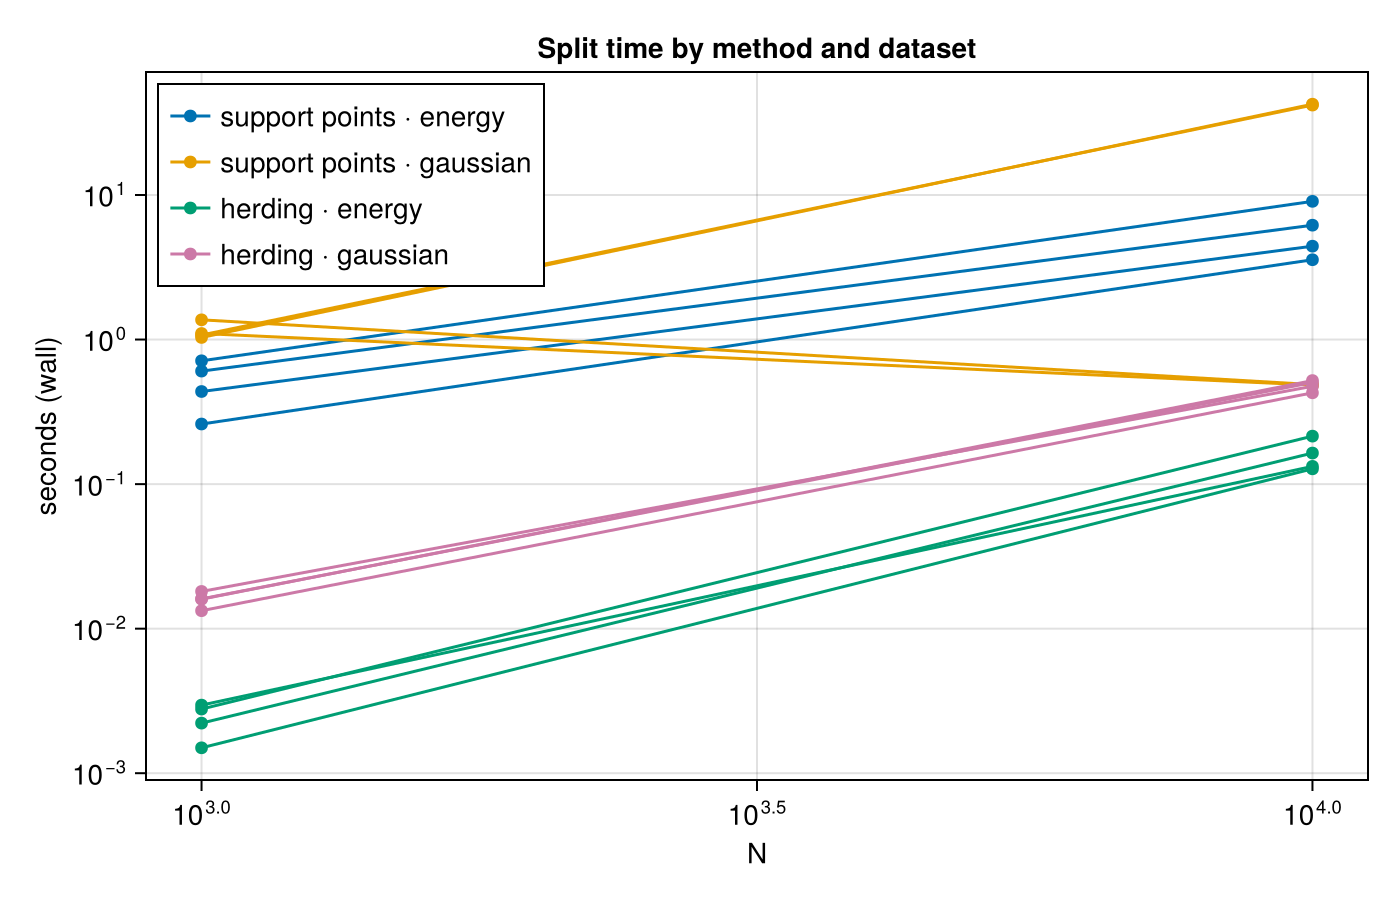
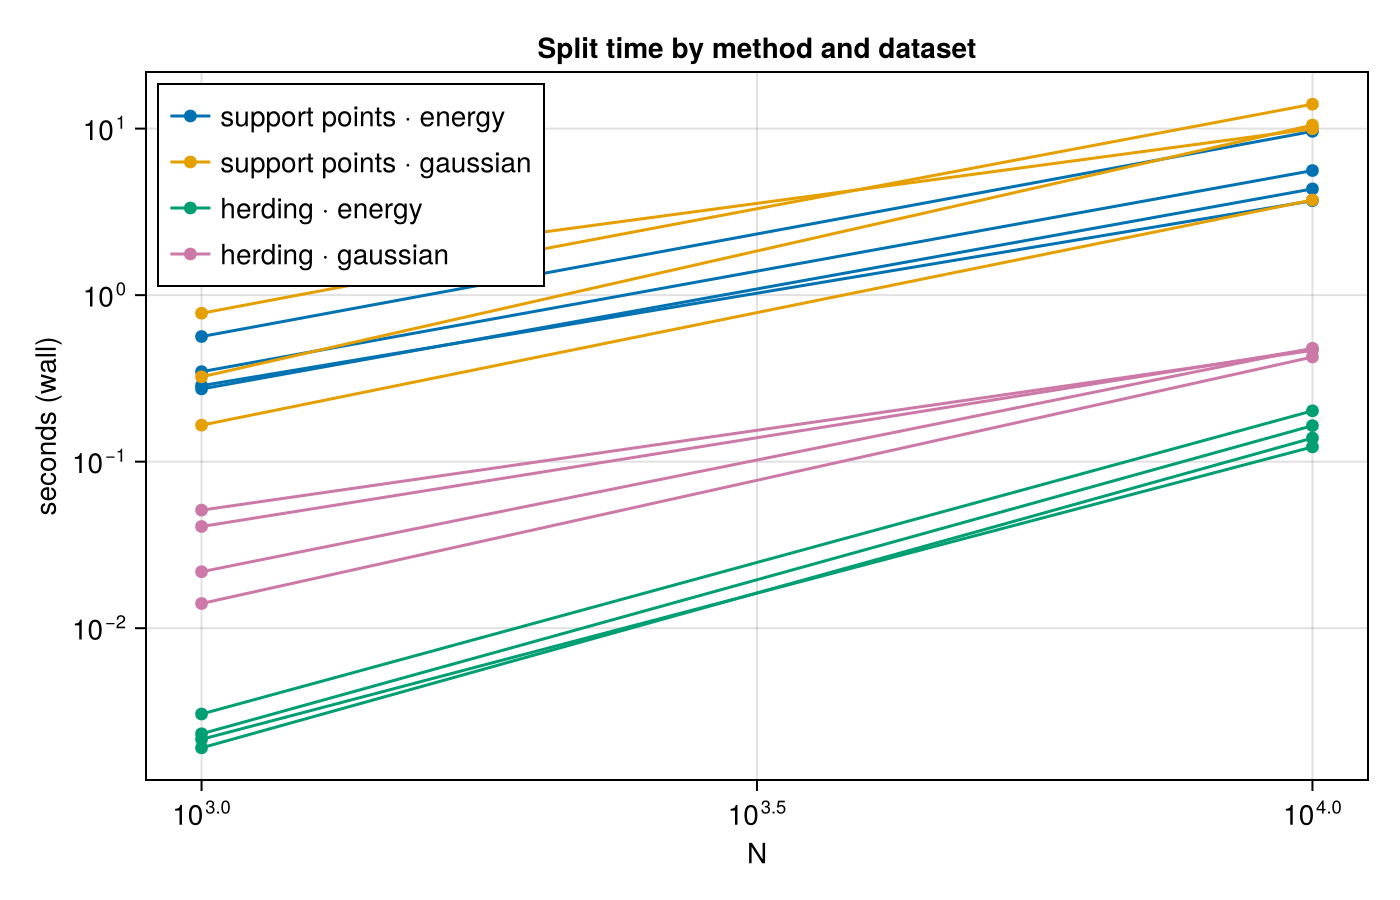
bench: Re-run benchmarks with the scale-aware optimizer
Full julia -t auto --project=benchmark benchmark/run.jl re-run
(the Gaussian optimizer's first step and convergence rule changed):
regenerated results.md and the three figures, and rewrote the
Benchmarks page's tables and Caveats from the new numbers.

support points · gaussian now converges honestly on every cell instead
of the old bimodal pattern (early stop at the initial sample on
normal-10d/uniform-5d, iteration cap without convergence on
mixture-2d/t3-3d). No ranking changes: herding · energy stays the
recommended default (lowest energy distance in 6/8 cells, fastest
everywhere); support points · gaussian is not the winner on any cell,
so its stopping point does not affect the recommendation.

diff --git a/docs/src/20-benchmarks.md b/docs/src/20-benchmarks.md
@@ -22,7 +22,10 @@ lowest MMD on the other three datasets. Reproduce with the command under
 | t3-3d | 10000 | herding · energy | herding · gaussian | herding · energy |
 
 Smaller discrepancy is better; times exclude JIT warm-up. Full per-cell
-numbers are in the tables under [Results](@ref benchmarks-results).
+numbers are in the tables under [Results](@ref benchmarks-results). For
+large inputs, `splitquality`'s automatic estimator is `RandomSlices(64)`
+(`EnergyKernel`) or `RandomFeatures(512)` (`GaussianKernel`), chosen by the
+selection experiment recorded under Results below ("Estimators").
 
 ## Setup
 
@@ -85,14 +88,14 @@ Best value per row in **bold**. The raw per-run table is
 
 | dataset | N | support points · energy | support points · gaussian | herding · energy | herding · gaussian | random |
 |---|---:|---:|---:|---:|---:|---:|
-| mixture-2d | 1000 | **0.000323** | 0.00235 | 0.000439 | 0.00772 | 0.012 |
+| mixture-2d | 1000 | **0.000323** | 0.00264 | 0.000439 | 0.00772 | 0.012 |
 | normal-10d | 1000 | 0.0215 | 0.0247 | **0.00822** | 0.00927 | 0.0255 |
-| uniform-5d | 1000 | 0.0047 | 0.015 | **0.00343** | 0.00535 | 0.0173 |
-| t3-3d | 1000 | **0.00163** | 0.0052 | 0.00174 | 0.0035 | 0.0161 |
+| uniform-5d | 1000 | 0.0047 | 0.0158 | **0.00343** | 0.00535 | 0.0173 |
+| t3-3d | 1000 | **0.00163** | 0.00586 | 0.00174 | 0.0035 | 0.0161 |
 | mixture-2d | 10000 | 0.000173 | 0.0003 | **1.42e-5** | 0.00432 | 0.000885 |
 | normal-10d | 10000 | 0.0025 | 0.00299 | **0.0006** | 0.000873 | 0.00208 |
 | uniform-5d | 10000 | 0.000844 | 0.00187 | **0.000199** | 0.00046 | 0.00146 |
-| t3-3d | 10000 | 0.000262 | 0.000567 | **8.06e-5** | 0.00082 | 0.00151 |
+| t3-3d | 10000 | 0.000262 | 0.000583 | **8.06e-5** | 0.00082 | 0.00151 |
 
 ### Gaussian MMD
 
@@ -101,14 +104,14 @@ dataset.
 
 | dataset | N | support points · energy | support points · gaussian | herding · energy | herding · gaussian | random |
 |---|---:|---:|---:|---:|---:|---:|
-| mixture-2d | 1000 | **1.57e-6** | 9.1e-6 | 1.08e-5 | 1.9e-5 | 0.00258 |
+| mixture-2d | 1000 | **1.57e-6** | 3.21e-5 | 1.08e-5 | 1.9e-5 | 0.00258 |
 | normal-10d | 1000 | 0.00187 | 0.00224 | 0.000114 | **9.82e-5** | 0.00227 |
-| uniform-5d | 1000 | 0.000255 | 0.00176 | 3.62e-5 | **3.54e-5** | 0.00217 |
-| t3-3d | 1000 | 0.000116 | 0.000663 | 9.8e-5 | **7.58e-5** | 0.00375 |
-| mixture-2d | 10000 | 3.2e-5 | 7.76e-7 | **1.87e-7** | 2.85e-7 | 0.000166 |
+| uniform-5d | 1000 | 0.000255 | 0.00189 | 3.62e-5 | **3.54e-5** | 0.00217 |
+| t3-3d | 1000 | 0.000116 | 0.000841 | 9.8e-5 | **7.58e-5** | 0.00375 |
+| mixture-2d | 10000 | 3.2e-5 | 1.74e-6 | **1.87e-7** | 2.85e-7 | 0.000166 |
 | normal-10d | 10000 | 0.000215 | 0.000289 | **1.91e-6** | 2.17e-6 | 0.000164 |
-| uniform-5d | 10000 | 7.24e-5 | 0.000244 | **3.2e-7** | 4.64e-7 | 0.00016 |
-| t3-3d | 10000 | 4.82e-5 | 7.64e-5 | 2.77e-6 | **2.25e-6** | 0.000305 |
+| uniform-5d | 10000 | 7.24e-5 | 0.000243 | **3.2e-7** | 4.64e-7 | 0.00016 |
+| t3-3d | 10000 | 4.82e-5 | 8.06e-5 | 2.77e-6 | **2.25e-6** | 0.000305 |
 
 ### Wall time (seconds)
 
@@ -116,14 +119,71 @@ The random split does no optimization, so it is omitted here.
 
 | dataset | N | support points · energy | support points · gaussian | herding · energy | herding · gaussian |
 |---|---:|---:|---:|---:|---:|
-| mixture-2d | 1000 | 0.26 | 1.0 | **0.0015** | 0.013 |
-| normal-10d | 1000 | 0.71 | 1.4 | **0.0028** | 0.016 |
-| uniform-5d | 1000 | 0.6 | 1.1 | **0.0022** | 0.016 |
-| t3-3d | 1000 | 0.44 | 1.1 | **0.003** | 0.018 |
-| mixture-2d | 10000 | 3.6 | 42.0 | **0.13** | 0.43 |
-| normal-10d | 10000 | 9.0 | 0.49 | **0.21** | 0.52 |
-| uniform-5d | 10000 | 6.2 | 0.48 | **0.16** | 0.5 |
-| t3-3d | 10000 | 4.4 | 42.0 | **0.13** | 0.48 |
+| mixture-2d | 1000 | 0.29 | 0.17 | **0.0022** | 0.051 |
+| normal-10d | 1000 | 0.56 | 1.3 | **0.0031** | 0.022 |
+| uniform-5d | 1000 | 0.35 | 0.32 | **0.0023** | 0.041 |
+| t3-3d | 1000 | 0.27 | 0.78 | **0.0019** | 0.014 |
+| mixture-2d | 10000 | 3.7 | 3.7 | **0.12** | 0.47 |
+| normal-10d | 10000 | 9.6 | 10.0 | **0.2** | 0.48 |
+| uniform-5d | 10000 | 5.6 | 11.0 | **0.16** | 0.48 |
+| t3-3d | 10000 | 4.3 | 14.0 | **0.14** | 0.43 |
+
+### Estimators
+
+Selection experiment for the `DiscrepancyEstimator` `splitquality` falls
+back to above `exact_threshold`: on the four datasets above at
+N = 10,000, absolute error against the exact value and wall time of every
+candidate, measured on the split from `support points · energy`,
+`herding · energy` (energy distance) and `herding · gaussian` (MMD), over 5
+rng seeds. Full table:
+[`assets/benchmarks/estimators.md`](assets/benchmarks/estimators.md).
+
+| estimator | max abs error (worst over rows) | mean time (s) (over rows) |
+|---|---:|---:|
+| `Subsample(2000, 8)` (EnergyKernel) | 0.00197 | 0.208 |
+| `RandomSlices(64)` | 0.00014 | 0.0189 |
+| `RandomSlices(256)` | 7.65e-5 | 0.0835 |
+| `RandomSlices(1024)` | 4.14e-5 | 0.331 |
+| `Subsample(2000, 8)` (GaussianKernel) | 0.000175 | 0.298 |
+| `RandomFeatures(512)` | 5.36e-7 | 0.0658 |
+| `RandomFeatures(2048)` | 3.85e-7 | 0.325 |
+
+Rule: an estimator becomes the automatic fallback if, at no more than
+`Subsample(2000, 8)`'s mean wall time, its worst-case max error over every
+row is at most one third of `Subsample(2000, 8)`'s; otherwise
+`Subsample(2000, 8)` stays the fallback.
+
+**Decision: `RandomSlices(64)` for `EnergyKernel`, `RandomFeatures(512)` for
+`GaussianKernel`** — both clear the rule by two to four orders of magnitude
+on error, at roughly a tenth of `Subsample`'s time; `ENERGY_FALLBACK` and
+`GAUSSIAN_FALLBACK` in `quality.jl` are set accordingly.
+
+### Approximate herding data terms (rejected)
+
+Kernel herding's data term (`mean_l k(x_i, x_l)`, Chen, Welling & Smola
+2010, Eq. 8) was tried with `RandomSlices`/`RandomFeatures` approximations
+and rejected: all candidate rows share the same random directions or
+features, so the estimator's noise is correlated across rows, and greedy
+`argmax` selection tracks that noise rather than averaging it out. In the
+table below the small budgets select subsets *worse than a random subset*,
+the mid budgets roughly match random, and only the largest budgets come
+within about 3× of exact herding — at which point the estimator's own cost
+(`O(kN log N)` for slices, `O(NDp)` for Fourier features) matches the exact
+`O(N²)` data term for `N` around 10⁵. `RandomSlices`/`RandomFeatures` remain
+available for `energydistance`/`mmd` quality diagnostics only;
+`HerdingSplitter`'s data term is exact only. N = 1500, p = 3, n = 300, 3 rng
+seeds per row.
+
+| kernel | estimator | selected-subset discrepancy (3 seeds) | exact herding | random | ratio to exact |
+|---|---|---|---:|---:|---:|
+| EnergyKernel | RandomSlices(64) | 0.0255, 0.0561, 0.0692 (mean 0.0503) | 0.000643 | 0.00713 | 78.2× |
+| EnergyKernel | RandomSlices(256) | 0.0181, 0.0222, 0.0262 (mean 0.0222) | 0.000643 | 0.00713 | 34.5× |
+| EnergyKernel | RandomSlices(2048) | 0.00467, 0.00486, 0.0108 (mean 0.00679) | 0.000643 | 0.00713 | 10.6× |
+| EnergyKernel | RandomSlices(8192) | 0.00138, 0.00252, 0.00228 (mean 0.00206) | 0.000643 | 0.00713 | 3.2× |
+| GaussianKernel | RandomFeatures(512) | 0.00448, 0.00385, 0.00407 (mean 0.00413) | 5.88e-5 | 0.00268 | 70.3× |
+| GaussianKernel | RandomFeatures(2048) | 0.0019, 0.00168, 0.00171 (mean 0.00177) | 5.88e-5 | 0.00268 | 30.0× |
+| GaussianKernel | RandomFeatures(8192) | 0.000474, 0.000503, 0.000343 (mean 0.00044) | 5.88e-5 | 0.00268 | 7.48× |
+| GaussianKernel | RandomFeatures(32768) | 0.000203, 0.000225, 0.000187 (mean 0.000205) | 5.88e-5 | 0.00268 | 3.48× |
 
 ## Figures
 
@@ -160,26 +220,55 @@ overlaid, showing why the methods disagree on which rows to hold out.
   `normal-10d`: 1.91e-6 for `herding · energy` versus 0.000215 for
   `support points · energy`).
 - **Herding is also the fastest optimized method at N = 10,000.**
-  `herding · energy` takes 0.13-0.21 s and `herding · gaussian` 0.43-0.52 s,
-  versus 3.6-9.0 s for `support points · energy`. `support points ·
-  gaussian` is bimodal, 0.48-0.49 s or 42 s; see Caveats.
+  `herding · energy` takes 0.12-0.2 s and `herding · gaussian` 0.43-0.48 s,
+  versus 3.7-9.6 s for `support points · energy` and 3.7-14.0 s for
+  `support points · gaussian`, which now converges honestly on every
+  cell — see Caveats for the quality/time trade that brings.
 - **Herding uses the exact data term at every size**, so its selections
   realize the greedy rule's guarantee at ``N = 10{,}000`` as well as at
   ``N = 1{,}000``.
+- **`RandomSlices(64)`/`RandomFeatures(512)` cut `splitquality`'s wall time
+  above `exact_threshold` at negligible error**, but approximating
+  herding's data term the same way was measured and rejected — the greedy
+  selection amplifies the estimators' row-correlated noise; see
+  "Approximate herding data terms (rejected)" under Results.
 
 ## Caveats
 
-`support points · gaussian` timings are bimodal. On `mixture-2d` and
-`t3-3d` it runs the full 100-iteration cap without converging (42 s). On
-`normal-10d` and `uniform-5d` it stops after one iteration (0.48-0.49 s,
-`result.converged == true`). This is not near-stationarity: the
-objective's ``1/n^2`` and ``1/(nN)`` scaling makes the initial gradient
-row-norms of order ``10^{-6}``, so the first squared displacement
-(``\sim 10^{-11}``) is already below `tolerance = 1e-10`; the absolute
-displacement tolerance fires at the initial sample even though further
-iterations would still decrease the objective. A scale-aware tolerance is
-a planned follow-up. Those two fast cells are an early stop, not fast
-convergence.
+`support points · gaussian` now converges honestly on every cell, via the
+scale-aware first step and two-part convergence rule
+(`support_points(::GaussianKernel, …)`; see [Methods](@ref methods)). Before
+that fix, the objective's ``1/n^2`` and ``1/(nN)`` scaling made the initial
+gradient row-norms of order ``10^{-6}``, so on `normal-10d` and `uniform-5d`
+the absolute displacement tolerance fired at the initial sample
+(0.48-0.49 s, `result.converged == true`) even though further iterations
+still decreased the objective; on `mixture-2d` and `t3-3d` the optimizer
+instead ran the full 100-iteration cap without ever reporting convergence
+(42 s). With the fix:
+
+- `normal-10d` and `uniform-5d` no longer stop at the initial sample: they
+  now take 10.0 s and 11.0 s (up from 0.48-0.49 s) and converge on the
+  two-part rule to essentially the same quality as before (energy distance
+  unchanged to 3 significant figures; MMD 0.000289 vs 0.000289, and
+  0.000243 vs 0.000244) — the single accepted step the old code reported was
+  already close to a local optimum, but the fix now reaches it by real
+  iteration rather than an accidentally-tight tolerance.
+- `mixture-2d` and `t3-3d` now converge honestly well before the
+  iteration cap, in 3.7 s and 14.0 s (down from 42 s, an 11x and 3x
+  speedup), at a slightly higher final MMD (mixture-2d: 1.74e-6 versus
+  7.76e-7 before; t3-3d: 8.06e-5 versus 7.64e-5 before) — the
+  relative-decrease rule (`rtol = 1e-8`) accepts diminishing returns earlier
+  than running to the cap would, trading a small amount of quality for the
+  speedup.
+- At ``N = 1{,}000`` the same trade appears on all four datasets: wall time
+  drops 2-6x (e.g. `mixture-2d`: 1.0 s to 0.17 s) alongside a modest
+  increase in `support points · gaussian`'s own MMD score (`mixture-2d`:
+  9.1e-6 to 3.21e-5).
+
+None of this changes which method the Summary recommends: `support points ·
+gaussian` is not the lowest-discrepancy method on any (dataset, N) cell, so
+its exact stopping point does not affect the "use `herding · energy` by
+default" recommendation.
 
 `support points · energy` runs with `kappa = 1_000` at ``N = 10{,}000``,
 so its ``N = 10{,}000`` numbers include stochastic-MM approximation error;

diff --git a/docs/src/assets/benchmarks/results.md b/docs/src/assets/benchmarks/results.md
@@ -1,42 +1,42 @@
 | dataset | N | method | energy distance | MMD (Gaussian, median σ) | seconds |
 |---|---:|---|---:|---:|---:|
-| mixture-2d | 1000 | support points · energy | 0.000323 | 1.57e-6 | 0.26 |
-| mixture-2d | 1000 | support points · gaussian | 0.00235 | 9.1e-6 | 1.0 |
-| mixture-2d | 1000 | herding · energy | 0.000439 | 1.08e-5 | 0.0015 |
-| mixture-2d | 1000 | herding · gaussian | 0.00772 | 1.9e-5 | 0.013 |
+| mixture-2d | 1000 | support points · energy | 0.000323 | 1.57e-6 | 0.29 |
+| mixture-2d | 1000 | support points · gaussian | 0.00264 | 3.21e-5 | 0.17 |
+| mixture-2d | 1000 | herding · energy | 0.000439 | 1.08e-5 | 0.0022 |
+| mixture-2d | 1000 | herding · gaussian | 0.00772 | 1.9e-5 | 0.051 |
 | mixture-2d | 1000 | random | 0.012 | 0.00258 | – |
-| normal-10d | 1000 | support points · energy | 0.0215 | 0.00187 | 0.71 |
-| normal-10d | 1000 | support points · gaussian | 0.0247 | 0.00224 | 1.4 |
-| normal-10d | 1000 | herding · energy | 0.00822 | 0.000114 | 0.0028 |
-| normal-10d | 1000 | herding · gaussian | 0.00927 | 9.82e-5 | 0.016 |
+| normal-10d | 1000 | support points · energy | 0.0215 | 0.00187 | 0.56 |
+| normal-10d | 1000 | support points · gaussian | 0.0247 | 0.00224 | 1.3 |
+| normal-10d | 1000 | herding · energy | 0.00822 | 0.000114 | 0.0031 |
+| normal-10d | 1000 | herding · gaussian | 0.00927 | 9.82e-5 | 0.022 |
 | normal-10d | 1000 | random | 0.0255 | 0.00227 | – |
-| uniform-5d | 1000 | support points · energy | 0.0047 | 0.000255 | 0.6 |
-| uniform-5d | 1000 | support points · gaussian | 0.015 | 0.00176 | 1.1 |
-| uniform-5d | 1000 | herding · energy | 0.00343 | 3.62e-5 | 0.0022 |
-| uniform-5d | 1000 | herding · gaussian | 0.00535 | 3.54e-5 | 0.016 |
+| uniform-5d | 1000 | support points · energy | 0.0047 | 0.000255 | 0.35 |
+| uniform-5d | 1000 | support points · gaussian | 0.0158 | 0.00189 | 0.32 |
+| uniform-5d | 1000 | herding · energy | 0.00343 | 3.62e-5 | 0.0023 |
+| uniform-5d | 1000 | herding · gaussian | 0.00535 | 3.54e-5 | 0.041 |
 | uniform-5d | 1000 | random | 0.0173 | 0.00217 | – |
-| t3-3d | 1000 | support points · energy | 0.00163 | 0.000116 | 0.44 |
-| t3-3d | 1000 | support points · gaussian | 0.0052 | 0.000663 | 1.1 |
-| t3-3d | 1000 | herding · energy | 0.00174 | 9.8e-5 | 0.003 |
-| t3-3d | 1000 | herding · gaussian | 0.0035 | 7.58e-5 | 0.018 |
+| t3-3d | 1000 | support points · energy | 0.00163 | 0.000116 | 0.27 |
+| t3-3d | 1000 | support points · gaussian | 0.00586 | 0.000841 | 0.78 |
+| t3-3d | 1000 | herding · energy | 0.00174 | 9.8e-5 | 0.0019 |
+| t3-3d | 1000 | herding · gaussian | 0.0035 | 7.58e-5 | 0.014 |
 | t3-3d | 1000 | random | 0.0161 | 0.00375 | – |
-| mixture-2d | 10000 | support points · energy | 0.000173 | 3.2e-5 | 3.6 |
-| mixture-2d | 10000 | support points · gaussian | 0.0003 | 7.76e-7 | 42.0 |
-| mixture-2d | 10000 | herding · energy | 1.42e-5 | 1.87e-7 | 0.13 |
-| mixture-2d | 10000 | herding · gaussian | 0.00432 | 2.85e-7 | 0.43 |
+| mixture-2d | 10000 | support points · energy | 0.000173 | 3.2e-5 | 3.7 |
+| mixture-2d | 10000 | support points · gaussian | 0.0003 | 1.74e-6 | 3.7 |
+| mixture-2d | 10000 | herding · energy | 1.42e-5 | 1.87e-7 | 0.12 |
+| mixture-2d | 10000 | herding · gaussian | 0.00432 | 2.85e-7 | 0.47 |
 | mixture-2d | 10000 | random | 0.000885 | 0.000166 | – |
-| normal-10d | 10000 | support points · energy | 0.0025 | 0.000215 | 9.0 |
-| normal-10d | 10000 | support points · gaussian | 0.00299 | 0.000289 | 0.49 |
-| normal-10d | 10000 | herding · energy | 0.0006 | 1.91e-6 | 0.21 |
-| normal-10d | 10000 | herding · gaussian | 0.000873 | 2.17e-6 | 0.52 |
+| normal-10d | 10000 | support points · energy | 0.0025 | 0.000215 | 9.6 |
+| normal-10d | 10000 | support points · gaussian | 0.00299 | 0.000289 | 10.0 |
+| normal-10d | 10000 | herding · energy | 0.0006 | 1.91e-6 | 0.2 |
+| normal-10d | 10000 | herding · gaussian | 0.000873 | 2.17e-6 | 0.48 |
 | normal-10d | 10000 | random | 0.00208 | 0.000164 | – |
-| uniform-5d | 10000 | support points · energy | 0.000844 | 7.24e-5 | 6.2 |
-| uniform-5d | 10000 | support points · gaussian | 0.00187 | 0.000244 | 0.48 |
+| uniform-5d | 10000 | support points · energy | 0.000844 | 7.24e-5 | 5.6 |
+| uniform-5d | 10000 | support points · gaussian | 0.00187 | 0.000243 | 11.0 |
 | uniform-5d | 10000 | herding · energy | 0.000199 | 3.2e-7 | 0.16 |
-| uniform-5d | 10000 | herding · gaussian | 0.00046 | 4.64e-7 | 0.5 |
+| uniform-5d | 10000 | herding · gaussian | 0.00046 | 4.64e-7 | 0.48 |
 | uniform-5d | 10000 | random | 0.00146 | 0.00016 | – |
-| t3-3d | 10000 | support points · energy | 0.000262 | 4.82e-5 | 4.4 |
-| t3-3d | 10000 | support points · gaussian | 0.000567 | 7.64e-5 | 42.0 |
-| t3-3d | 10000 | herding · energy | 8.06e-5 | 2.77e-6 | 0.13 |
-| t3-3d | 10000 | herding · gaussian | 0.00082 | 2.25e-6 | 0.48 |
+| t3-3d | 10000 | support points · energy | 0.000262 | 4.82e-5 | 4.3 |
+| t3-3d | 10000 | support points · gaussian | 0.000583 | 8.06e-5 | 14.0 |
+| t3-3d | 10000 | herding · energy | 8.06e-5 | 2.77e-6 | 0.14 |
+| t3-3d | 10000 | herding · gaussian | 0.00082 | 2.25e-6 | 0.43 |
 | t3-3d | 10000 | random | 0.00151 | 0.000305 | – |
